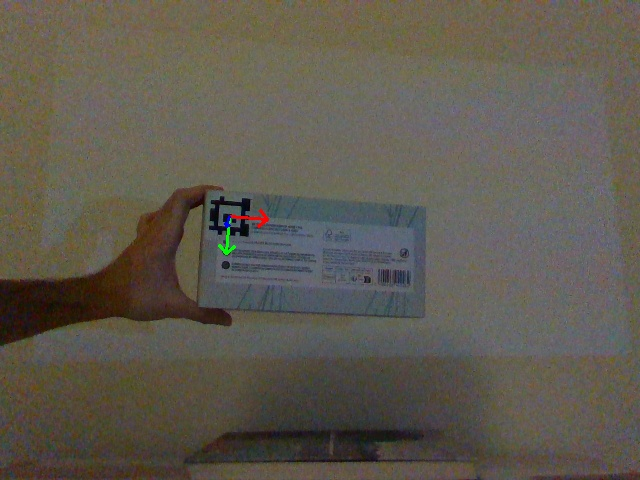
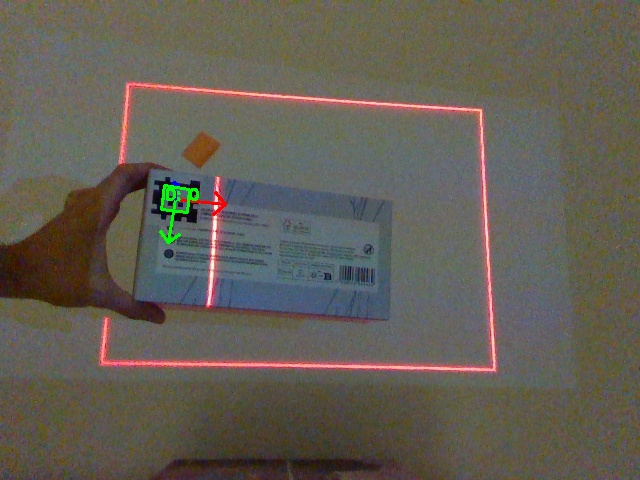
Testing Pipeline for projection

diff --git a/src/main.py b/src/main.py
@@ -17,6 +17,172 @@ def update_windows() -> None:
         cv2.waitKey(1)
         time.sleep(0.01)
 
+def extract_valid_image_points(image_with_drawings, depth_image, depth_scale):
+    """
+    Extracts the valid image points (2D), depth values (meters) and colors (RGB) from the image with drawings using the depth image.
+
+    :param image_with_drawings: The image with the drawings (RGB)
+    :param depth_image: The depth image (millimeters)
+    :param depth_scale: The depth scale of the depth sensor
+    :return: The valid image points, depth values and colors
+    """
+    # Extract all non-black pixels
+    non_black_mask = np.any(image_with_drawings != [0, 0, 0], axis=-1)                
+    
+    # Get the coordinates and colors of the non-black pixels
+    non_black_coords = np.column_stack(np.nonzero(non_black_mask))
+    non_black_colors = image_with_drawings[non_black_mask]
+
+    # Scale the depth_image to meters and get the depth values of the non-black pixels
+    depth_image = depth_image * depth_scale
+    depth_values = depth_image[non_black_coords[:, 0], non_black_coords[:, 1]]
+
+    # Filter out the invalid depth values
+    valid_depth_mask = (depth_values > 0) & (~np.isnan(depth_values))
+
+    # Save the valid coordinates, colors and depth values
+    valid_coords = non_black_coords[valid_depth_mask]
+    valid_colors = non_black_colors[valid_depth_mask]
+    valid_depths = depth_values[valid_depth_mask]
+
+    # Store the valid image points in the format (u, v)
+    image_points = valid_coords[:, [1, 0]].astype(np.float32).reshape(-1, 1, 2)  # (u, v)
+
+    return image_points, valid_depths, valid_colors
+
+def cam_2D_to_cam_3D(image_with_drawings, depth_image, depth_scale, cam_K, cam_kc):
+    """
+    Transform the 2D camera image points to 3D camera coordinates.
+
+    :param image_with_drawings: The image with the drawings (RGB)
+    :param depth_image: The depth image (millimeters)
+    :param depth_scale: The depth scale of the depth sensor
+    :param cam_K: The camera matrix (3x3)
+    :param cam_kc: The distortion coefficients (5x1)
+    :return: The 3D camera coordinates
+    """
+    # Extract the valid image point coords, depth values and colors
+    cam_image_points, valid_depths, valid_colors = extract_valid_image_points(image_with_drawings, depth_image, depth_scale)
+
+    # Undistort the image points
+    undistorted_points = cv2.undistortPoints(cam_image_points, cam_K, cam_kc)
+
+    # Calculate the 3D camera coordinates
+    x_c = undistorted_points[:, 0, 0]
+    y_c = undistorted_points[:, 0, 1]
+    Z_c = valid_depths  # Depth values in meters
+
+    X_c = x_c * Z_c
+    Y_c = y_c * Z_c
+
+    # Store each 3D point in the format (X, Y, Z) in a vertical stack by transposing the matrix
+    points_cam_3D = np.vstack((X_c, Y_c, Z_c)).T  # (N, 3)
+
+    print(f"3D Camera Points: {points_cam_3D}")
+    print(f"Number of 3D Camera Points: {len(points_cam_3D)}")
+
+    return points_cam_3D, valid_colors
+
+def cam_3D_to_tag_3D(points_cam_3D, R_tag, tvec_tag):
+    """
+    Transform the 3D camera coordinates to the 3D AprilTag coordinates.
+
+    :param points_cam_3D: The 3D camera coordinates
+    :param R_ct: The rotation matrix of the AprilTag (3x3)
+    :param tvec: The translation vector of the AprilTag (3x1)
+    :return: The 3D AprilTag coordinates
+    """
+    # Convert the 3D camera coordinates from normal cartesian to homogeneous coordinates for the transformation
+    points_homogeneous = np.hstack((points_cam_3D, np.ones((points_cam_3D.shape[0], 1))))
+
+    T_cam_to_tag = np.eye(4)
+    T_cam_to_tag[:3, :3] = R_tag
+    T_cam_to_tag[:3, 3] = tvec_tag.flatten()
+
+    T_tag_to_cam = np.linalg.inv(T_cam_to_tag)
+
+    points_tag_homogeneous = (T_tag_to_cam @ points_homogeneous.T).T
+
+    # (Optional) If needed, convert the homogeneous coordinates back to cartesian coordinates
+    points_tag_cartesian = points_tag_homogeneous[:, :3] 
+
+    return points_tag_homogeneous, points_tag_cartesian, T_cam_to_tag
+
+def tag_3D_to_cam_3D(points_tag_3D, T_cam_to_tag):
+    """
+    Transform the 3D AprilTag coordinates back to 3D camera coordinates.
+
+    :param points_tag_3D: The 3D AprilTag coordinates
+    :param T_cam_to_tag: The transformation matrix from the camera to the AprilTag (4x4)
+    :return: The 3D camera coordinates
+    """
+    # Convert the 3D AprilTag coordinates back to 3D camera coordinates (homogeneous)
+    points_cam_homogeneous = (T_cam_to_tag @ points_tag_3D.T).T
+
+    # (Optional) If needed, convert the homogeneous coordinates back to cartesian coordinates
+    points_cam_cartesian = points_cam_homogeneous[:, :3]
+
+    return points_cam_homogeneous, points_cam_cartesian
+
+def cam_3D_to_proj_3D(points_cam_homogeneous, R_proj, tvec_proj):
+    """
+    Transform the 3D camera coordinates to the 3D projector coordinates.
+
+    :param points_cam_homogeneous: The 3D camera coordinates (homogeneous)
+    :param R_proj: The rotation matrix of the projector (3x3)
+    :param tvec_proj: The translation vector of the projector (3x1)
+    :return: The 3D projector coordinates
+    """
+    tvec_proj = tvec_proj.reshape(3, 1) / 1000 # Convert to meters
+
+    # Create the tranformation matrix from the projector to the camera
+    T_proj_to_cam = np.eye(4)
+    T_proj_to_cam[:3, :3] = R_proj
+    T_proj_to_cam[:3, 3] = tvec_proj.flatten()
+
+    # Invert the transformation matrix to get the transformation from the camera to the projector
+    T_cam_to_proj = np.linalg.inv(T_proj_to_cam)
+
+    # Convert the 3D camera coordinates to 3D projector coordinates (homogeneous)
+    points_proj_homogeneous = (T_cam_to_proj @ points_cam_homogeneous.T).T
+
+    # (Optional) If needed, convert the homogeneous coordinates back to cartesian coordinates
+    points_proj_cartesian = points_proj_homogeneous[:, :3]
+
+    return points_proj_homogeneous, points_proj_cartesian, T_cam_to_proj
+
+def proj_3D_to_proj_2D(points_proj_cartesian, proj_K, proj_kc):
+    """
+    Project the 3D projector coordinates to 2D projector image points.
+
+    :param points_proj_homogeneous: The 3D projector coordinates (homogeneous)
+    :param proj_K: The projector matrix (3x3)
+    :param proj_kc: The distortion coefficients of the projector (5x1)
+    :return: The 2D projector image points
+    """
+    # Reshape the 3D projector coordinates to (N, 1, 3) for the projection
+    points_proj_homogeneous_reshaped = points_proj_cartesian.reshape(-1, 1, 3)
+
+    # Project the 3D projector coordinates to 2D projector image points
+    proj_image_points, _ = cv2.projectPoints(points_proj_homogeneous_reshaped, np.zeros((3,)), np.zeros((3,)), proj_K, proj_kc)
+
+    projected_points = proj_image_points.reshape(-1, 2) # (N, 2)
+
+    return projected_points
+
+def filter_valid_proj_image_points(proj_image_points, valid_colors, projector_width, projector_height):
+    valid_proj_mask = (proj_image_points[:, 0] >= 0) & (proj_image_points[:, 0] < projector_width) & \
+          (proj_image_points[:, 1] >= 0) & (proj_image_points[:, 1] < projector_height)
+                
+    valid_projected_points = proj_image_points[valid_proj_mask]
+    valid_projected_colors = valid_colors[valid_proj_mask]
+
+    u_p = valid_projected_points[:, 0].astype(int)
+    v_p = valid_projected_points[:, 1].astype(int)
+
+    return u_p, v_p, valid_projected_colors
+    
+
 def main() -> None:
     # Initialize the camera and AprilTag detector
     camera, apriltag_detector, camera_matrix, color_intrinsics, _ = initialize_system()
@@ -25,6 +191,8 @@ def main() -> None:
     global projector_window_name
     projector_window_name, projector_width, projector_height = setup_projector_window()
     proj_image = np.zeros((projector_height, projector_width, 3), dtype=np.uint8)
+    # draw a red rectangle on the edges of the projector image
+    proj_image = cv2.rectangle(proj_image, (0, 0), (projector_width - 1, projector_height - 1), (0, 0, 255), 10)
 
     # Start the thread to update the windows
     window_thread = threading.Thread(target=update_windows)
@@ -39,7 +207,9 @@ def main() -> None:
     calibration_data_path = 'C:\\Users\\cenko\\Desktop\\Studium\\FH Aachen\\7. Semester\\Bachelor\\Projektor_Kamera_Kalibrierung\\calibration.yml'
 
     cam_K, cam_kc, proj_K, proj_kc, R, T = get_calibration_data(calibration_data_path)
-    
+
+    print(f"Projector Intrinsics (proj_K):\n{proj_K}")
+
     try:
         while True:
             success, color_image, color_frame, depth_image, depth_frame, depth_scale = camera.get_frames()
@@ -48,6 +218,7 @@ def main() -> None:
 
             gray = cv2.cvtColor(color_image, cv2.COLOR_BGR2GRAY)
             results = apriltag_detector.detect(gray)
+
 
             for result in results:
                 # Get the distance to the center of the AprilTag
@@ -71,7 +242,37 @@ def main() -> None:
                     color_image = draw_axes(color_image, R_ct, tvec_opencv, cam_K, cam_kc, axis_length)
 
                     if image_with_drawings_path is not None:
-                        pass
+                        # Create a new projector image
+                        proj_image = np.zeros((projector_height, projector_width, 3), dtype=np.uint8)
+
+                        # Load the image with the drawings
+                        image_with_drawings = cv2.imread(image_with_drawings_path)
+
+                        ### 1. Transform the 2D camera image points to 3D camera coordinates ###
+                        points_cam_3D, valid_colors = cam_2D_to_cam_3D(image_with_drawings, depth_image, depth_scale, cam_K, cam_kc)
+
+                        ### 2. Transform the 3D camera coordinates to the 3D AprilTag coordinates ###
+                        points_tag_homogeneous, _, T_cam_to_tag = cam_3D_to_tag_3D(points_cam_3D, R_ct, tvec_opencv)
+
+                        ### 3. Transform the 3D AprilTag coordinates back to 3D camera coordinates ###
+                        points_cam_homogeneous, _ = tag_3D_to_cam_3D(points_tag_homogeneous, T_cam_to_tag)
+                        
+                        ### 4. Transform the 3D camera coordinates to the 3D projector coordinates ###
+                        _, points_proj_cartesian, _ = cam_3D_to_proj_3D(points_cam_homogeneous, R, T)
+
+                        ### 5. Project the 3D projector coordinates to 2D projector image points ###
+                        proj_image_points = proj_3D_to_proj_2D(points_proj_cartesian, proj_K, proj_kc)
+
+                        print(f"Proj Image Points: {proj_image_points}")
+                        print(f"Number of Proj Image Points: {len(proj_image_points)}")
+
+
+                        ### 6. Filter the valid projected image points ###
+                        u_p, v_p, valid_projected_colors = filter_valid_proj_image_points(proj_image_points, valid_colors, projector_width, projector_height)
+
+                        # Draw the transformed image pixels on the projector image
+                        proj_image[v_p, u_p] = valid_projected_colors
+
                 else:
                     cv2.putText(color_image, "Too close!, please move away a few cm.", (50, 50), cv2.FONT_HERSHEY_SIMPLEX, 0.7, (0, 0, 255), 2)
 
@@ -98,91 +299,26 @@ def main() -> None:
             key = cv2.waitKey(1) & 0xFF
 
             if key == ord(' '):
-                # save the image
-                image_name = os.path.join("data/calibration_images", f"drawing_test_img_{count + 1}.jpg")
-                cv2.imwrite(image_name, color_image)
-                count += 1
+                if results:
+                    # Switch border color to green if a tag was detected
+                    proj_image = cv2.rectangle(proj_image, (0, 0), (projector_width - 1, projector_height - 1), (0, 255, 0), 10)
+                     
+                    # save the image
+                    image_name = os.path.join("data/calibration_images", f"drawing_test_img_{count + 1}.jpg")
+                    cv2.imwrite(image_name, color_image)
+                    count += 1
 
-                open_image_in_paint(image_name)
+                    open_image_in_paint(image_name)
 
-                image_with_drawings_path = "data/saved_images/test_drawing.jpg"
+                    image_with_drawings_path = "data/saved_images/test_drawing.jpg"
+                else:
+                    print("No AprilTag detected, please try again.")
 
             if key == ord('q'):
                 break
     finally:
         camera.stop()
         cv2.destroyAllWindows()
-
-    """try:
-        while True:
-            # Get the frames from the camera
-            color_image, depth_image, depth_frame, _, _ = camera.get_frames()
-            if color_image is None or depth_image is None or depth_frame is None:
-                continue
-
-
-            # Convert the color image to grayscale
-            gray = cv2.cvtColor(color_image, cv2.COLOR_BGR2GRAY)
-            results = apriltag_detector.detect(gray)
-
-            for result in results:
-                # Get the distance to the center of the AprilTag
-                u_center_of_tag, v_center_of_tag = int(result.center[0]), int(result.center[1])
-                depth_to_tag = depth_frame.get_distance(u_center_of_tag, v_center_of_tag)
-                print(f"Depth to AprilTag: {depth_to_tag}m")
-
-                # Rotation vector (Orientation relative to the camera)
-                R_ct = result.pose_R
-
-                # Check if camera is too close to the tag
-                if depth_to_tag > min_distance:
-                    # axis_length = depth_to_tag / 4.0  # May be used to scale the axes according to the distance to the tag
-
-                    # Translation vector (Position relative to the camera) -> calculated with the RealSense camera
-                    tvec_realsense = camera.get_3D_camera_coords(u_center_of_tag, v_center_of_tag, depth_to_tag, color_intrinsics["intrinsics_raw"])
-
-                    # Draw the axes and tag border with ID
-                    color_image = draw_axes(color_image, R_ct, tvec_realsense, camera_matrix, color_intrinsics["dist_coeffs"], axis_length)
-                    
-                else:
-                    cv2.putText(color_image, "Too close!, please move away a few cm.", (50, 50), cv2.FONT_HERSHEY_SIMPLEX, 0.7, (0, 0, 255), 2)
-
-                # Always draw the tag border and ID
-                # color_image = draw_tag_border_and_id(color_image, result)
-
-            # Display the image with the AprilTag detection
-            cv2.imshow('AprilTag Detection', color_image)            
-
-            # Wait for a key press
-            key = cv2.waitKey(1) & 0xFF
-
-            # Save the image of the component if a tag was detected and open it for editing
-            if key == ord(' '):
-                saved_image_path, saved_filename = save_component_img(color_image, count)
-                count += 1
-
-                if results:
-                    # Save the image of the component and open it for editing
-                    saved_image_path, saved_filename = save_component_img(color_image, results[0].tag_id)
-                    open_image_in_paint(saved_image_path)
-
-
-                    # FIXME: Paths for the edited image and the drawing (currently "hard coded")
-                    edited_img_path = "data/saved_images/edited_" + saved_filename
-                    drawing_path = "data/saved_images/drawing_edited_" + saved_filename
-
-                    # Open the edited image in a window
-                    show_img(edited_img_path)
-
-                    # Get the drawings and transform the 2D bounding boxes to 3D
-                    # drawings_3D = transform_bounding_boxes_to_3D(drawing_path, depth_frame, color_intrinsics, (R_ct, tvec_realsense))
-
-            # Close the window if the 'q' key is pressed
-            if key == ord('q'):
-                break
-    finally:
-        camera.stop()
-        cv2.destroyAllWindows()"""
 
 if __name__ == "__main__":
     main() 
